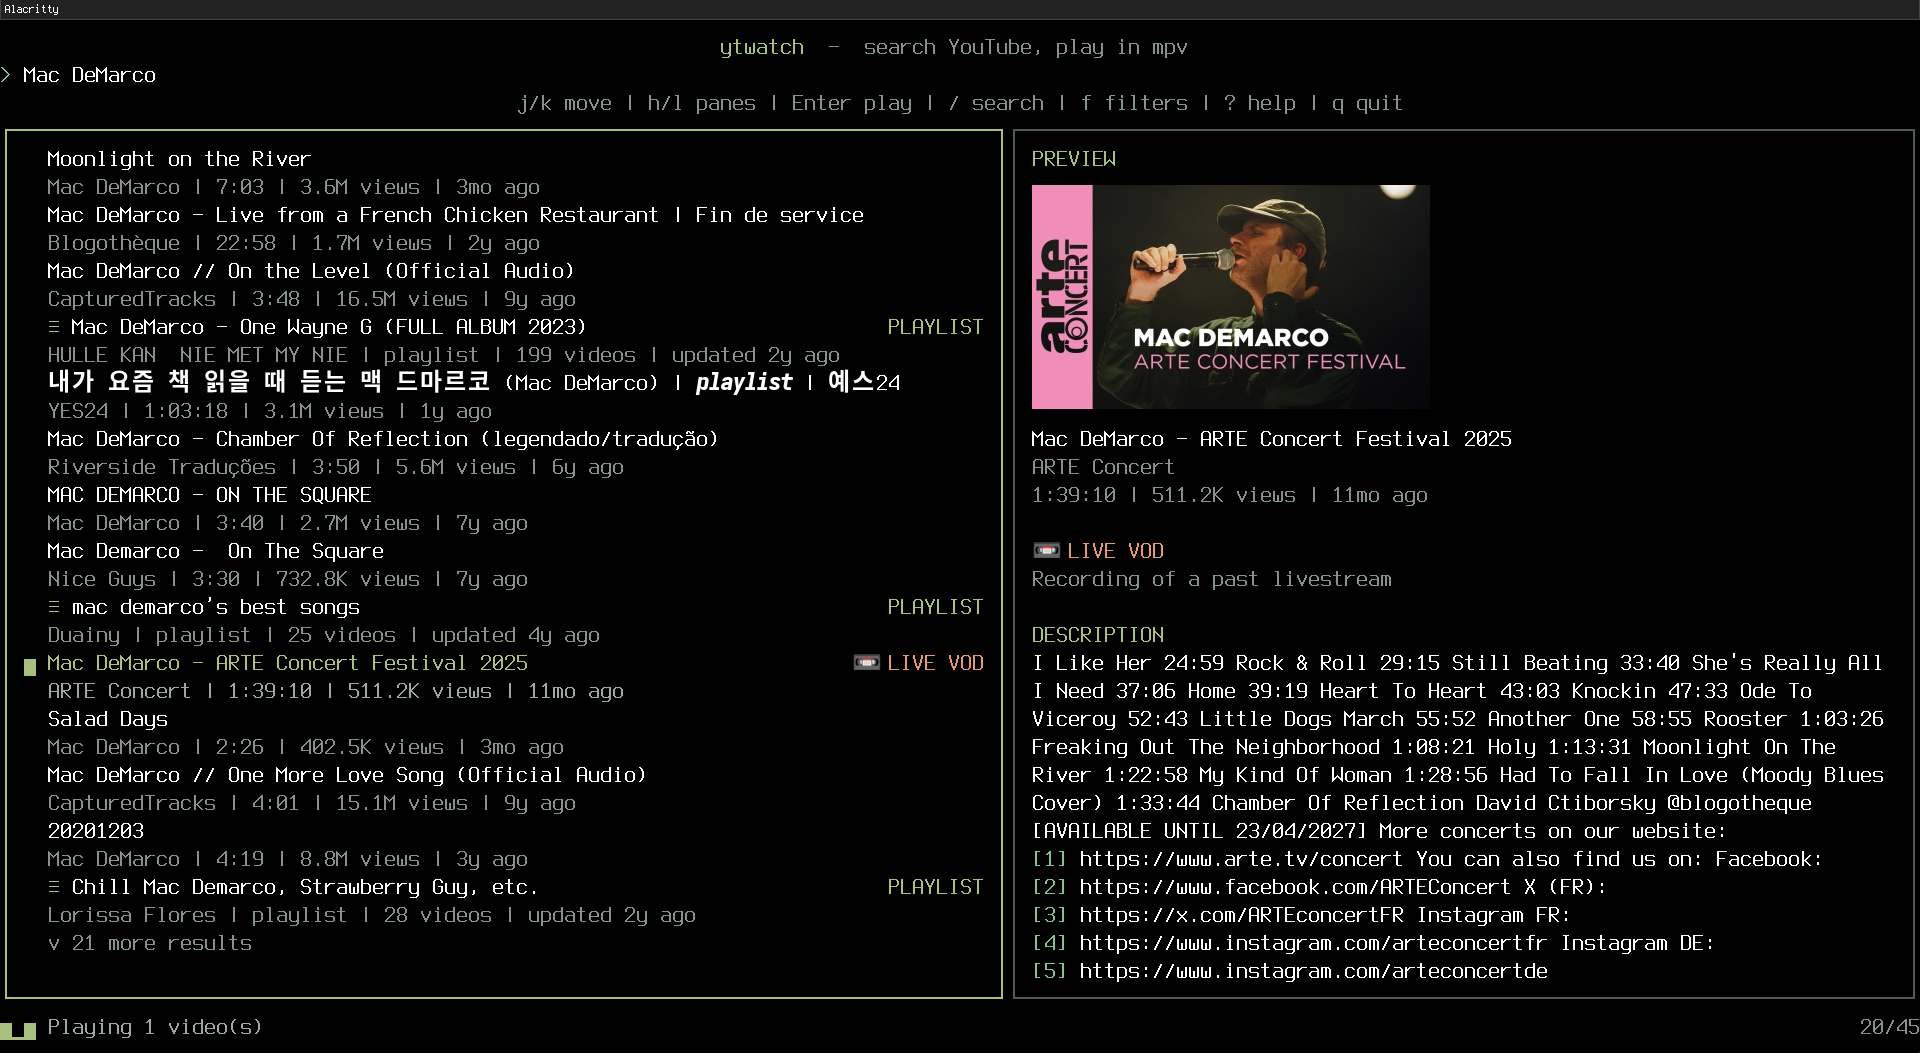
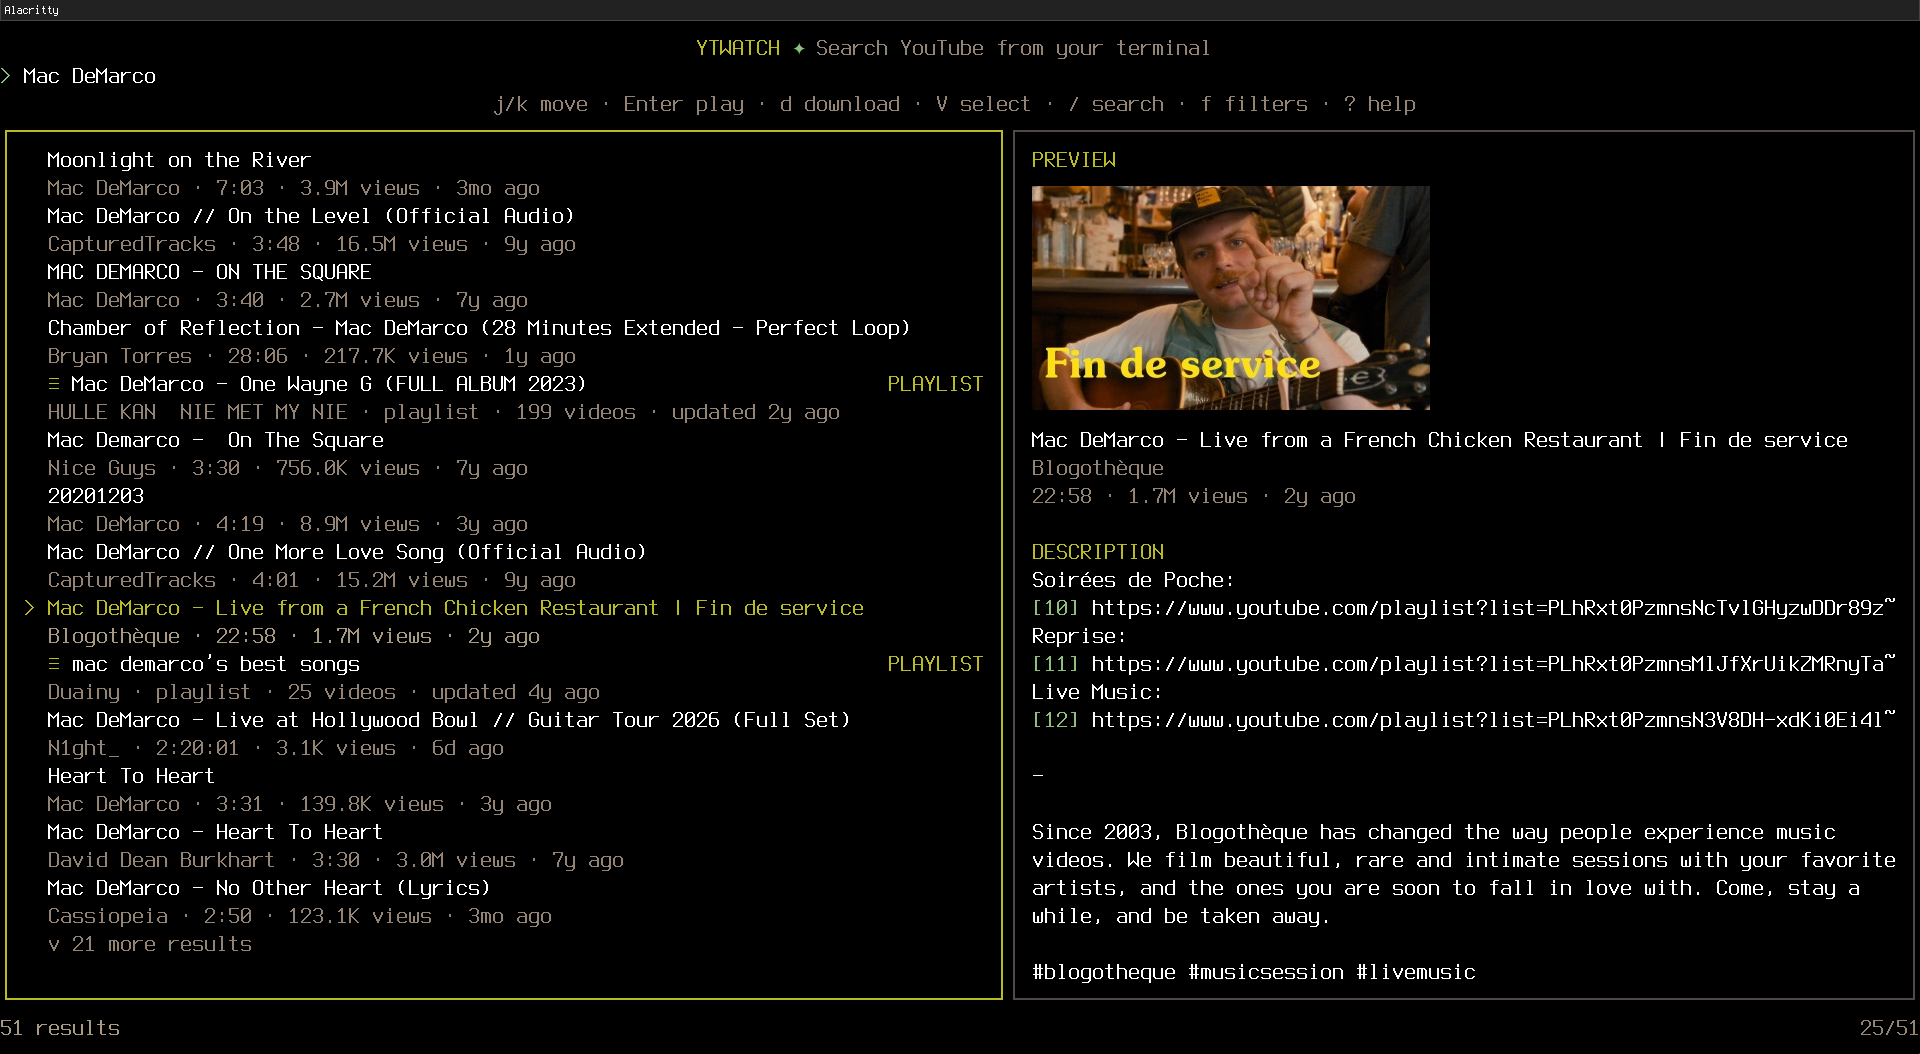
docs: update the screenshot
Also drop the bold markers from the tagline.

diff --git a/README.md b/README.md
@@ -2,7 +2,7 @@
 
 <img src="docs/logo/wordmark.svg" width="380" alt="ytwatch">
 
-**Search YouTube from your terminal. Watch on purpose.**
+Search YouTube from your terminal. Watch on purpose.
 
 [![Go](https://img.shields.io/badge/go-1.23+-00ADD8?logo=go&logoColor=white)](https://go.dev)
 [![License: MIT](https://img.shields.io/badge/license-MIT-green)](LICENSE)
